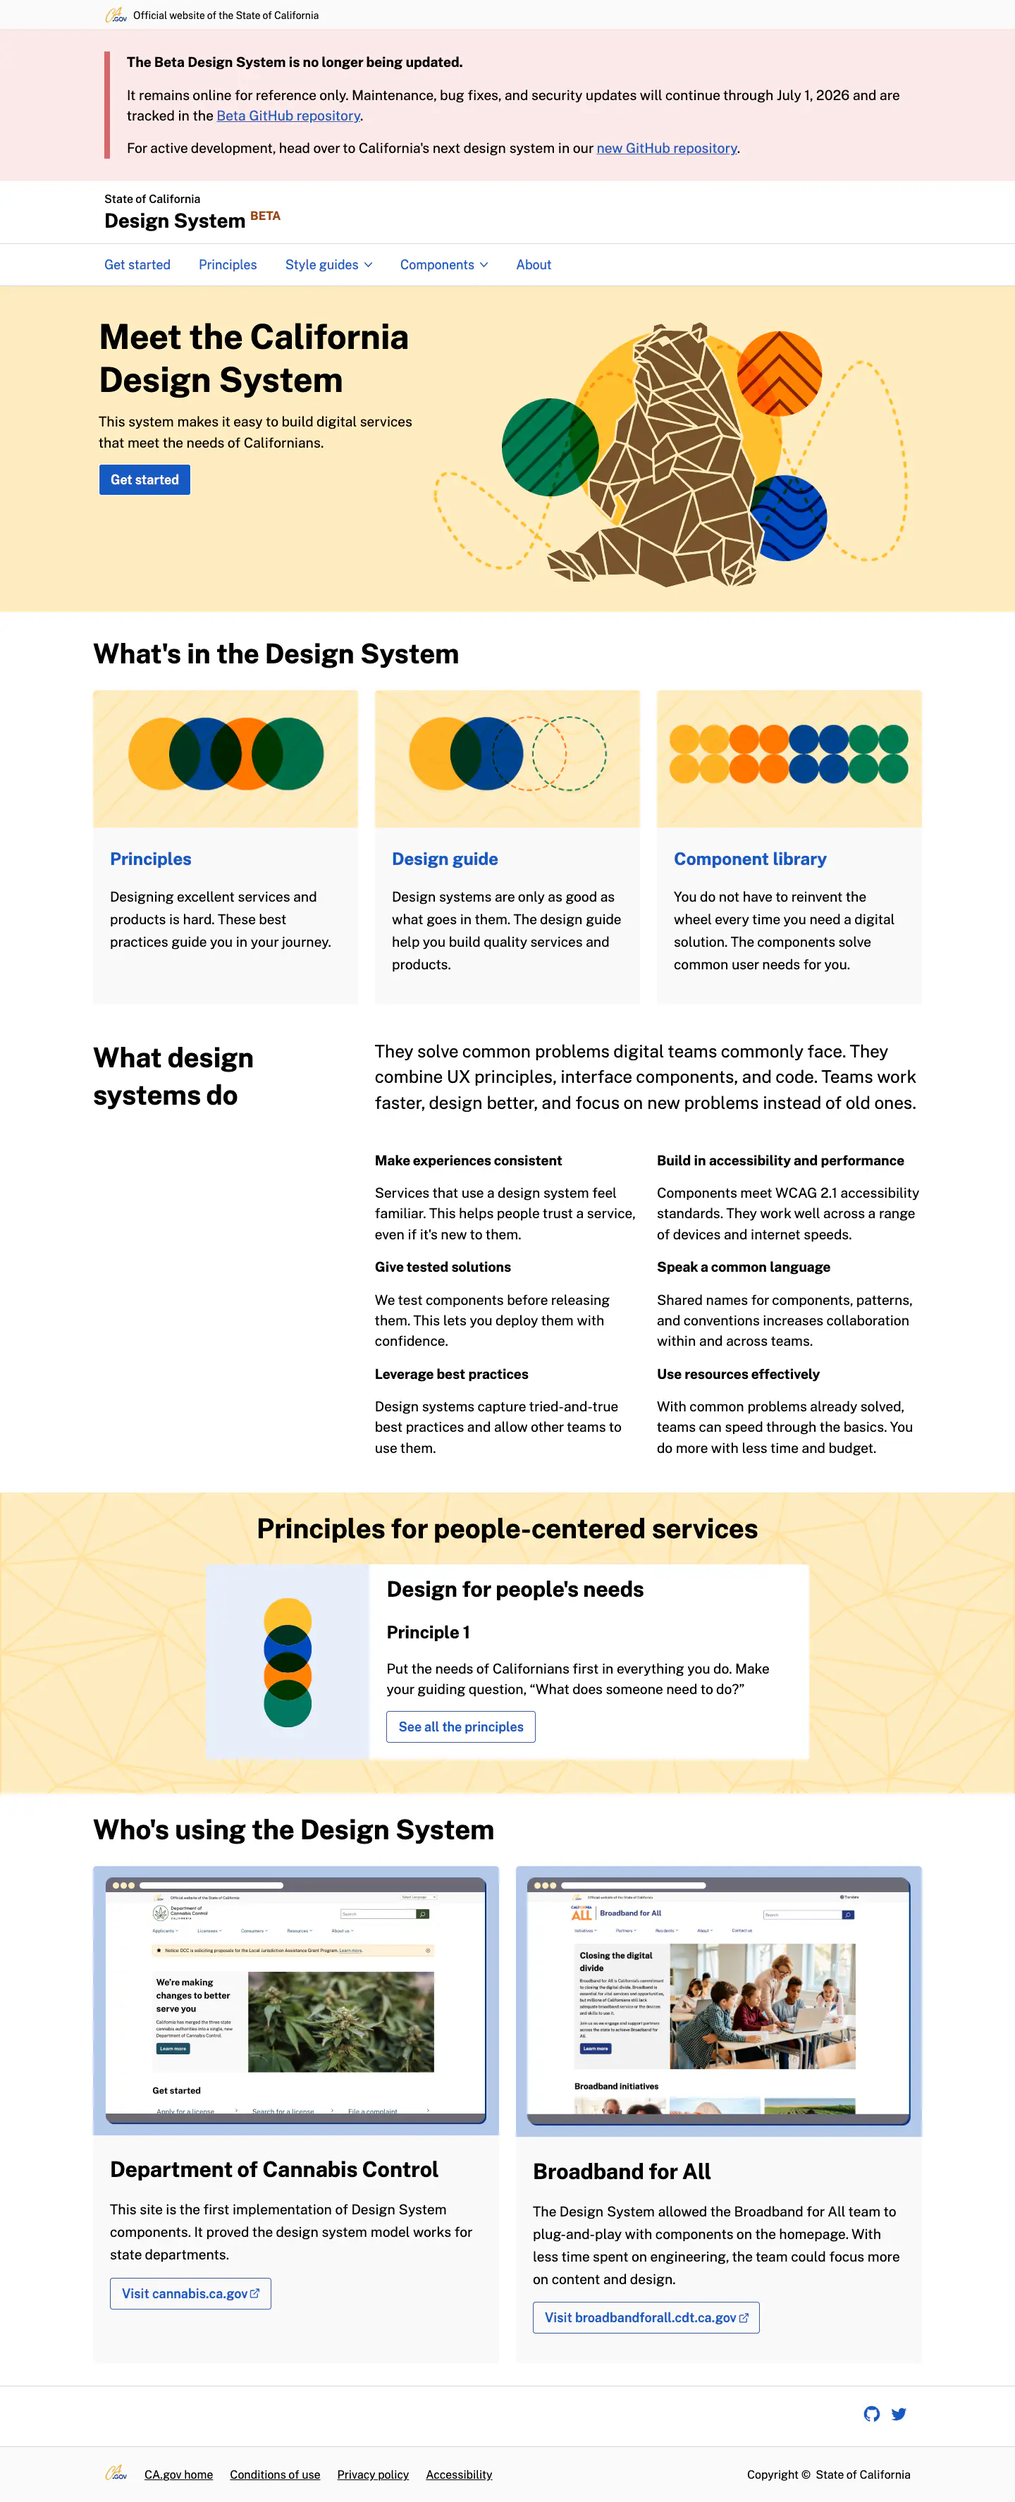
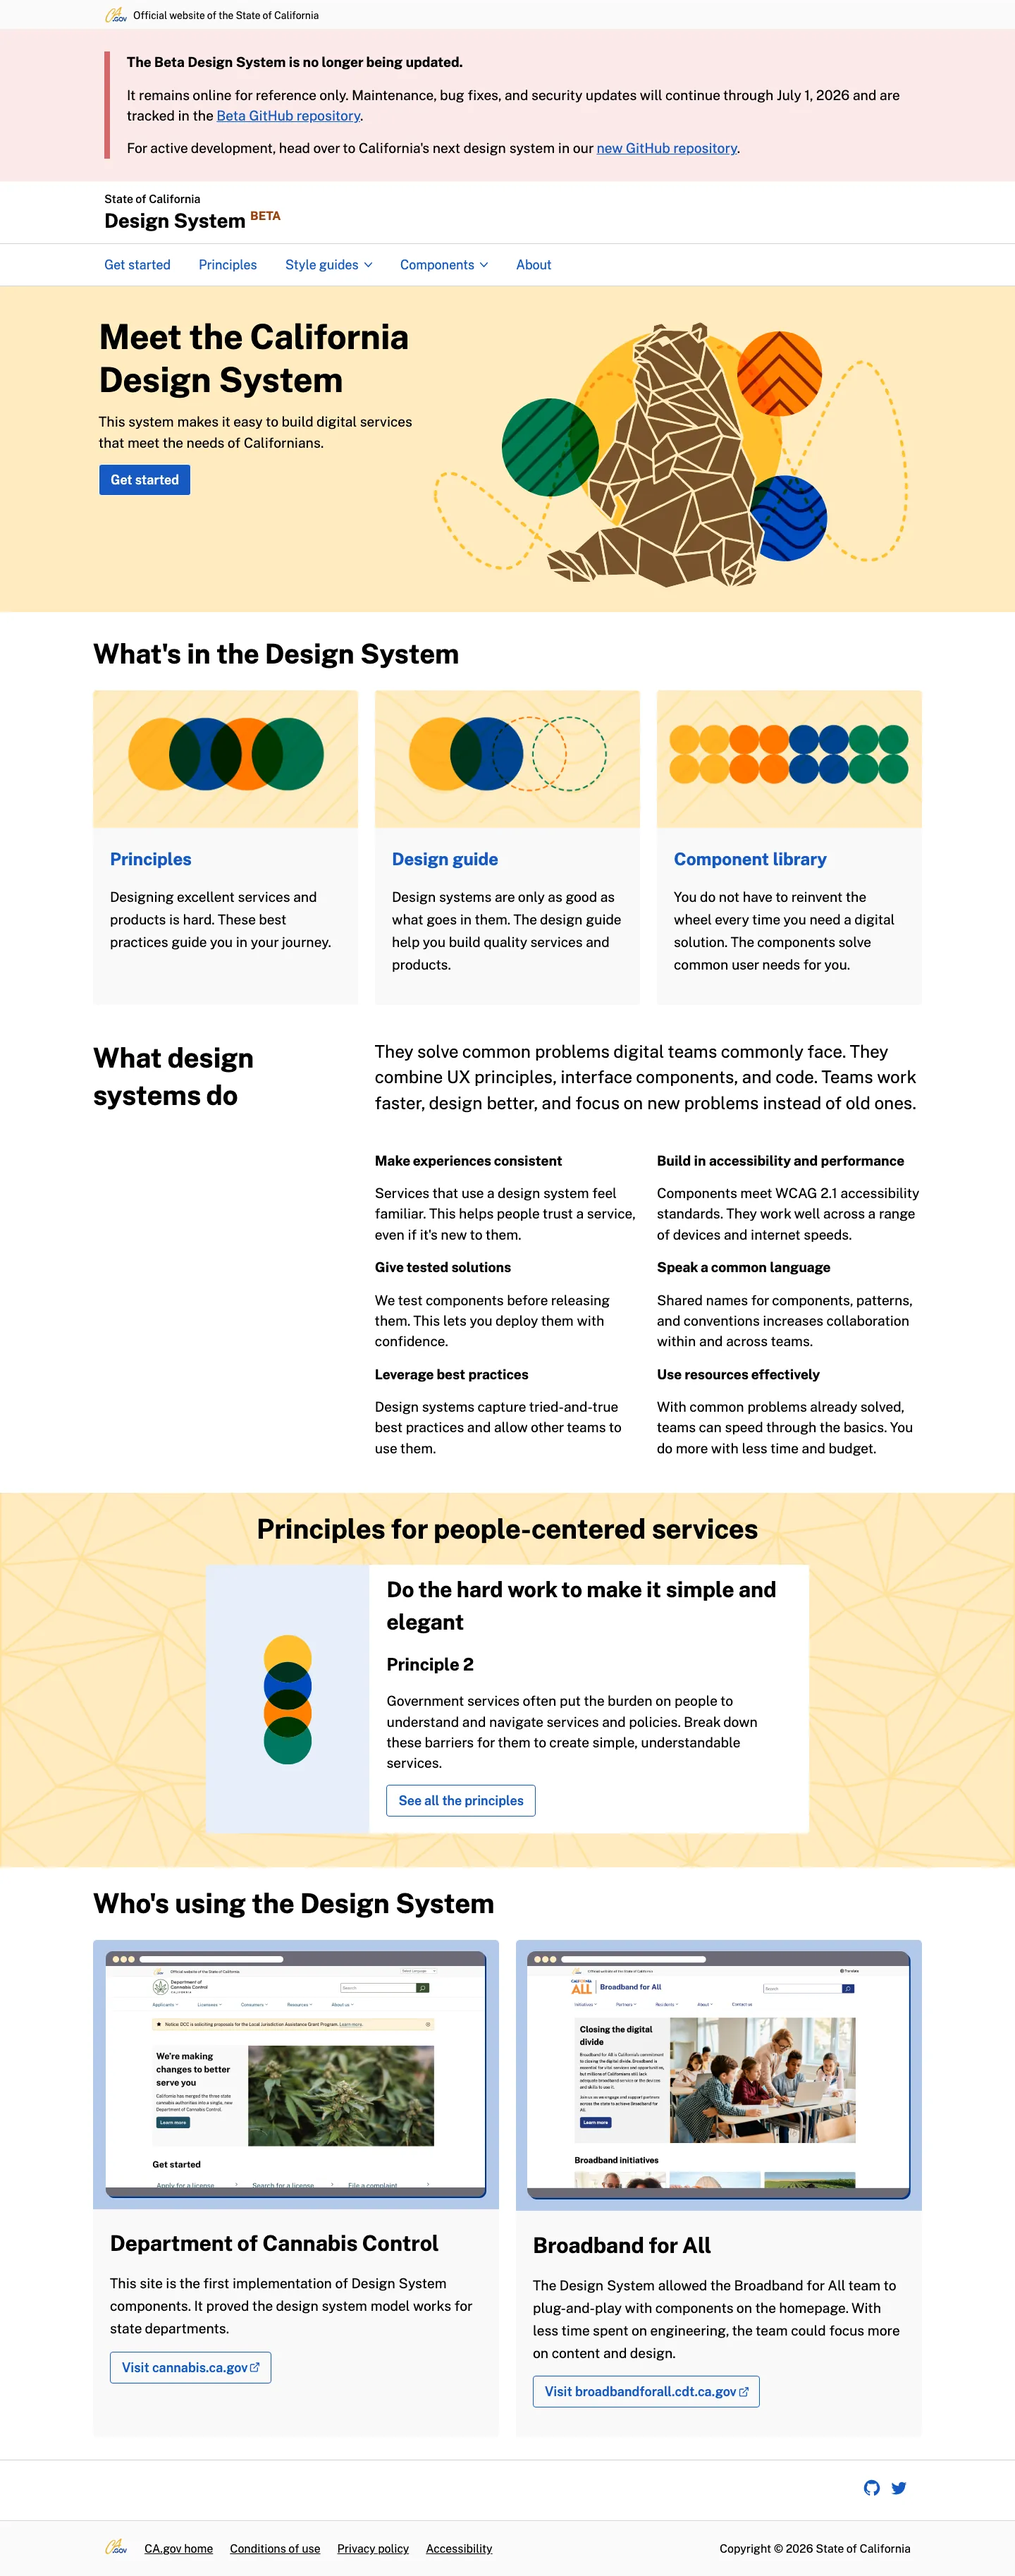
Replace Wayback screenshots with captures from the S3 archive.

diff --git a/_entries/work-ca-design-system.md b/_entries/work-ca-design-system.md
@@ -8,14 +8,14 @@ tags: [ government, design systems ]
 
 ## designsystem.webstandards.ca.gov (archived)
 
-Screenshot captured 2026-10-03 from the Wayback Machine snapshot of 2026-05-07 (the last capture of the original site).
+Screenshots captured 2026-10-09 from the archived copy of the site.
 
 ### Desktop (1440 px wide)
 
-![California Design System homepage at designsystem.webstandards.ca.gov, desktop width]({{ '/files/work-ca-design-system/archive-desktop.webp' | relative_url }}){: width="1440" height="3549" loading="lazy" decoding="async"}
+![California Design System homepage at designsystem.webstandards.ca.gov, desktop width]({{ '/files/work-ca-design-system/archive-desktop.webp' | relative_url }}){: width="1440" height="3653" loading="lazy" decoding="async"}
 
 ### Mobile (390 px wide)
 
-![California Design System homepage at designsystem.webstandards.ca.gov, mobile width]({{ '/files/work-ca-design-system/archive-mobile.webp' | relative_url }}){: width="390" height="6649" loading="lazy" decoding="async"}
+![California Design System homepage at designsystem.webstandards.ca.gov, mobile width]({{ '/files/work-ca-design-system/archive-mobile.webp' | relative_url }}){: width="390" height="6703" loading="lazy" decoding="async"}
 
-Source: [web.archive.org/web/20260507124648/https://designsystem.webstandards.ca.gov/](https://web.archive.org/web/20260507124648/https://designsystem.webstandards.ca.gov/)
+Source: [designsystem.webstandards.ca.gov archive](http://designsystem.webstandards.ca.gov.s3-website-us-west-1.amazonaws.com/)
